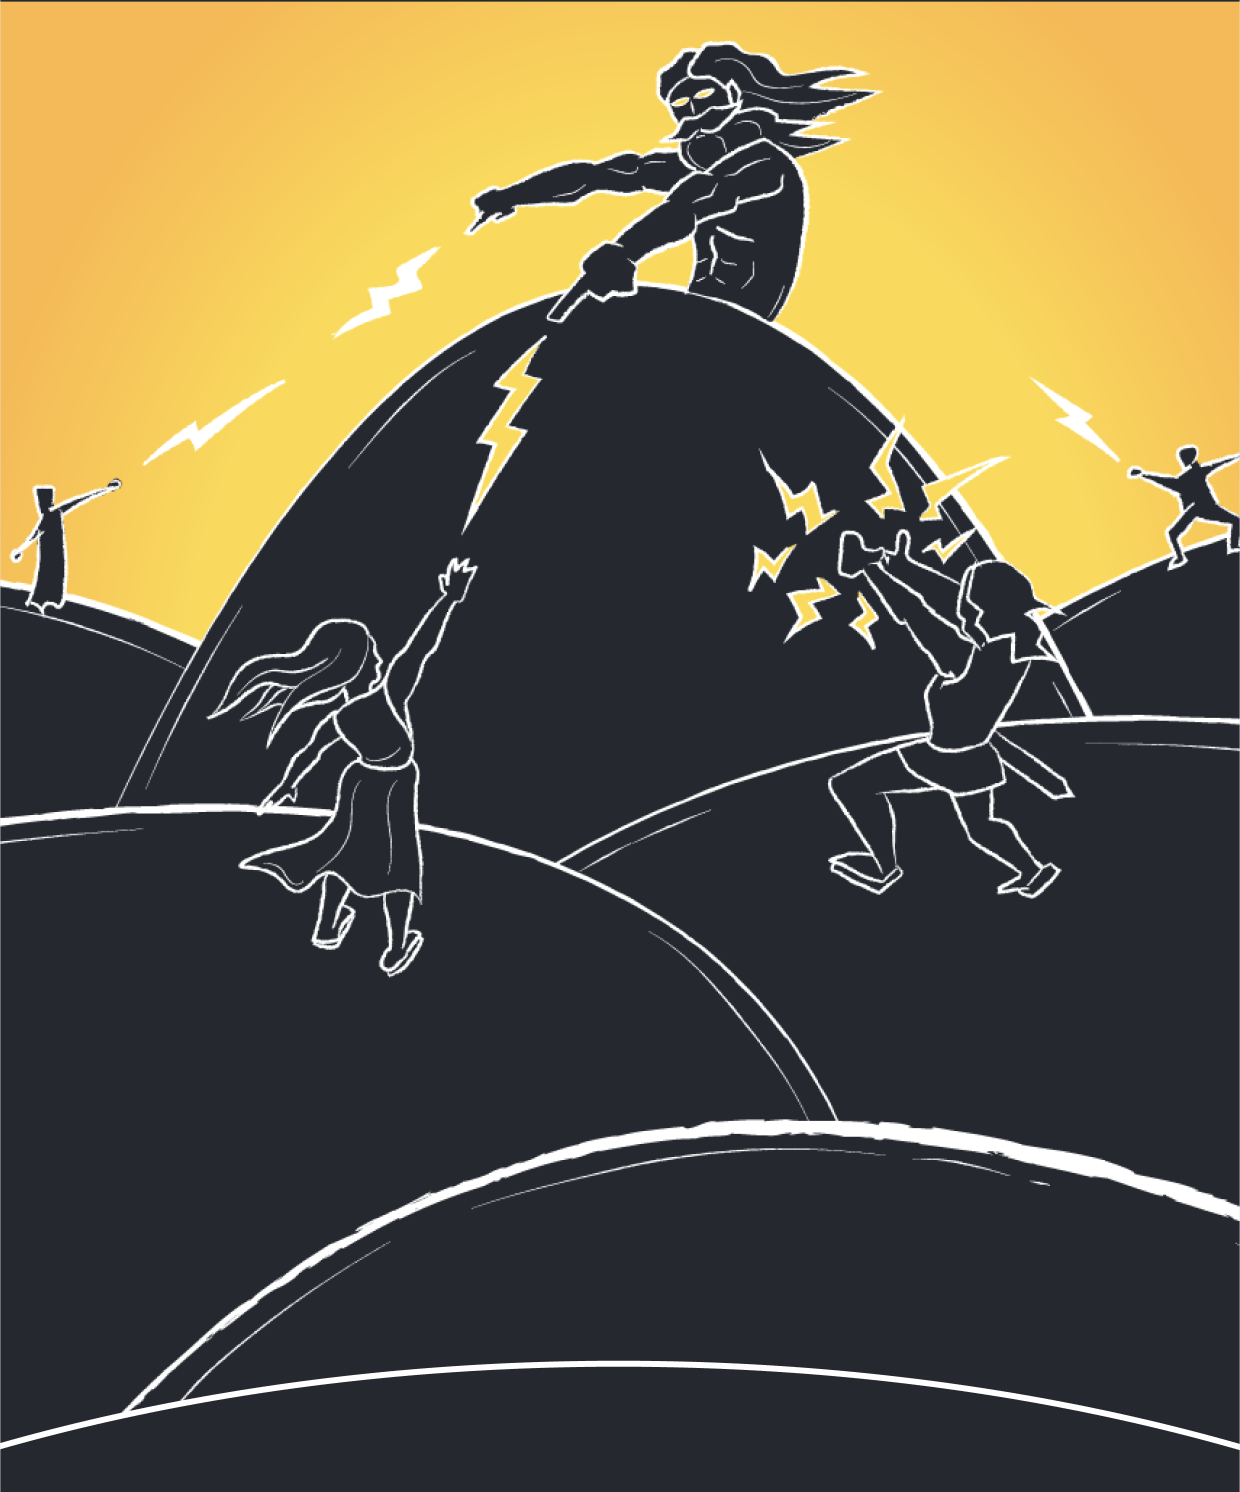
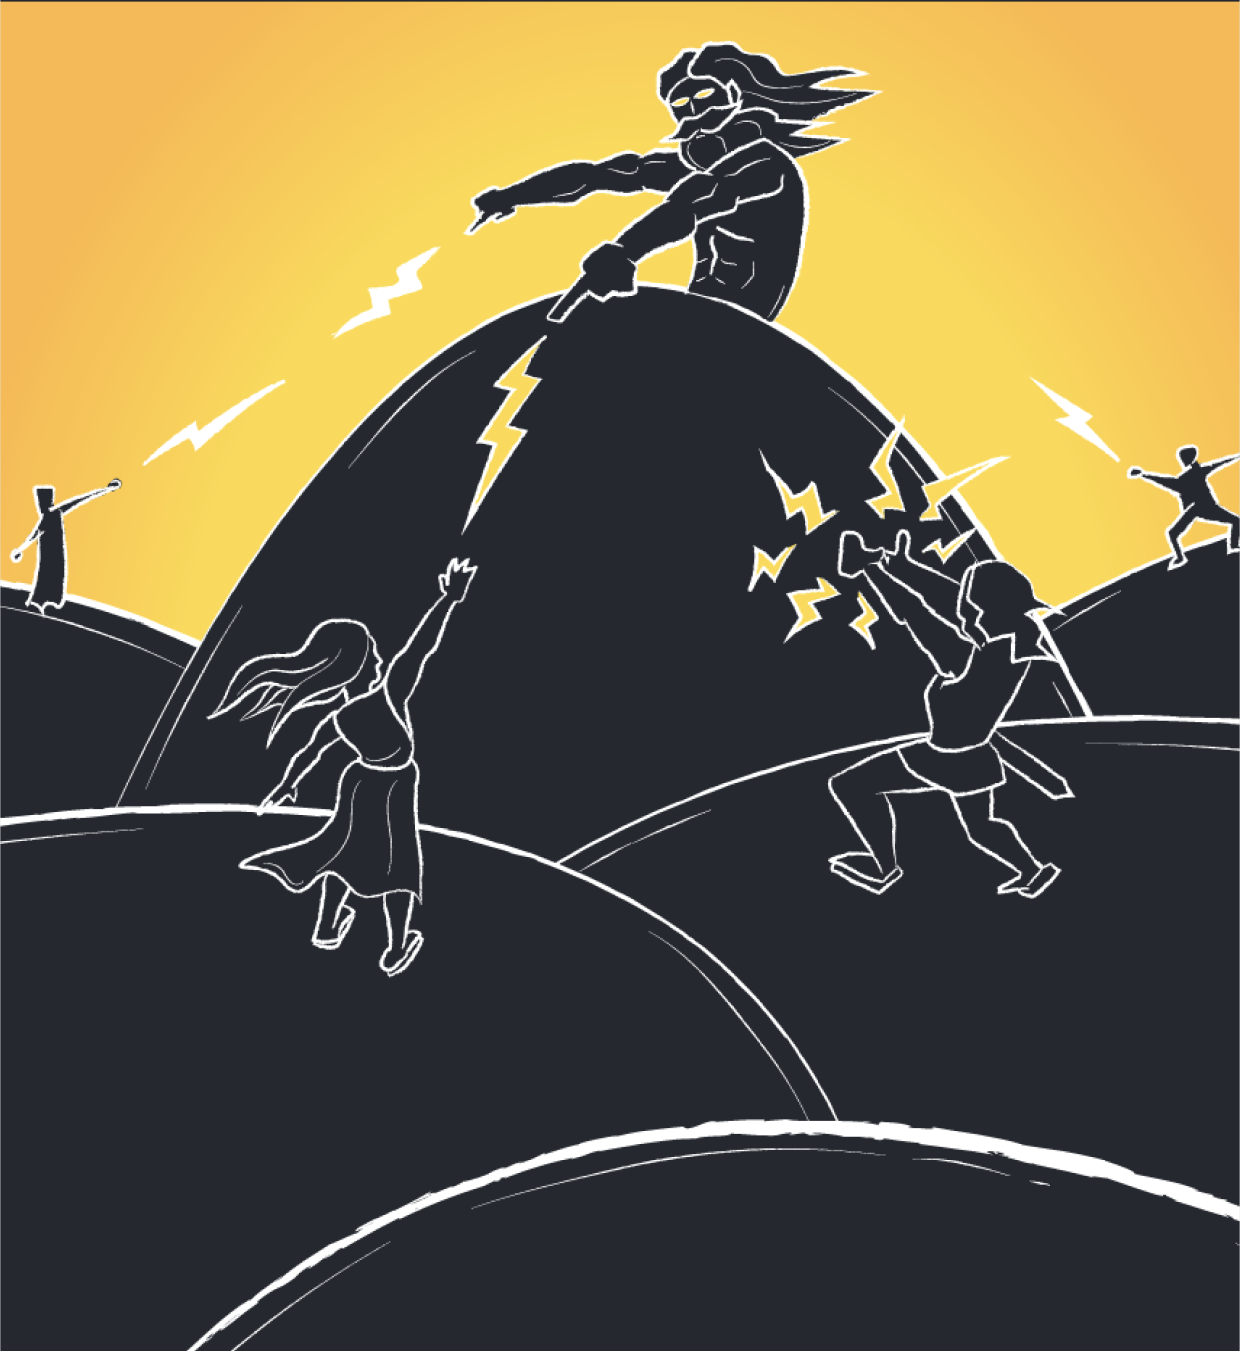
Tweak dimensions on intro and splash screens (#755)

diff --git a/views/Intro.tsx b/views/Intro.tsx
@@ -1,5 +1,5 @@
 import * as React from 'react';
-import { Image, Text, View, SafeAreaView } from 'react-native';
+import { Dimensions, Image, Text, View, SafeAreaView } from 'react-native';
 
 import Carousel, { Pagination } from 'react-native-snap-carousel';
 import Button from './../components/Button';
@@ -23,9 +23,11 @@ interface IntroState {
 
 export default class Intro extends React.Component<IntroProps, IntroState> {
     carousel: any;
+    screenWidth: number;
 
     constructor(props: any) {
         super(props);
+        this.screenWidth = Dimensions.get('window').width;
         this.state = {
             activeIndex: 0,
             carouselItems: [
@@ -63,14 +65,14 @@ export default class Intro extends React.Component<IntroProps, IntroState> {
             >
                 <Image
                     source={item.illustration}
-                    style={{ width: 400, height: 500 }}
+                    style={{ width: this.screenWidth, height: 520 }}
                 />
                 <Text
                     style={{
                         fontSize: 25,
                         color: themeColor('text'),
                         alignSelf: 'center',
-                        padding: 10
+                        paddingTop: 10
                     }}
                 >
                     {item.title}
@@ -109,8 +111,8 @@ export default class Intro extends React.Component<IntroProps, IntroState> {
                         layout="default"
                         ref={(ref) => (this.carousel = ref)}
                         data={carouselItems}
-                        sliderWidth={400}
-                        itemWidth={400}
+                        sliderWidth={this.screenWidth}
+                        itemWidth={this.screenWidth}
                         itemHeight={600}
                         renderItem={this._renderItem}
                         onSnapToItem={(index) =>

diff --git a/views/IntroSplash.tsx b/views/IntroSplash.tsx
@@ -30,7 +30,10 @@ export default class IntroSplash extends React.Component<IntroSplashProps, {}> {
                         justifyContent: 'center'
                     }}
                 >
-                    <Image source={Splash} style={{ flex: 1, width: '100%' }} />
+                    <Image
+                        source={Splash}
+                        style={{ flex: 1, width: '95%', alignSelf: 'center' }}
+                    />
                 </View>
                 <View
                     style={{
